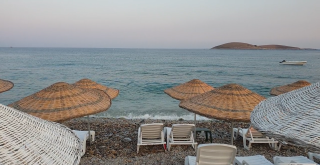
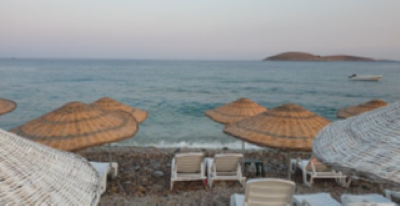
Redimension et lien accessible pour tous

diff --git a/src/classes/action/AffichageSerieAction.php b/src/classes/action/AffichageSerieAction.php
@@ -61,6 +61,12 @@ class AffichageSerieAction extends Action
         $idSectionSuivante = $nbrSlide;
 
 
+        $scriptNameExplode = explode('/', $this->getScriptName());
+        $chemin = '';
+        for ($k = 0; $k < count($scriptNameExplode) - 1; $k++) {
+            $chemin .= $scriptNameExplode[$k] . '/';
+        }
+
         $nbrRow = 0;
         for ($i = 1; $i <= $nbrSlide; $i++) {
             $idPrecedent = ($i >1) ? $i-1 : $nbrSlide;
@@ -77,15 +83,17 @@ class AffichageSerieAction extends Action
                 $titre = $data['titre'];
                 $img = $data['img'];
 
+
+
+
                 $html .= <<<END
                     <div class="item">
                          <a href="?action=affichage-page-serie&titre-serie=$titre">
-                            <img alt="descritpion" src="/DevWeb/S3.1-SAE-DEV-WEB/ressource/image/$img"></br>
+                            <img alt="descritpion" src="$chemin/ressource/image/$img"></br>
                             <h1 class="heading">$titre</h1>
                          </a>
                     </div>
                     END;
-
                 $nbrRow++;
             }
             $html .= '<a href="?#section' . $idSuivant .'" class="arrow__btn right-arrow">›</a>';
